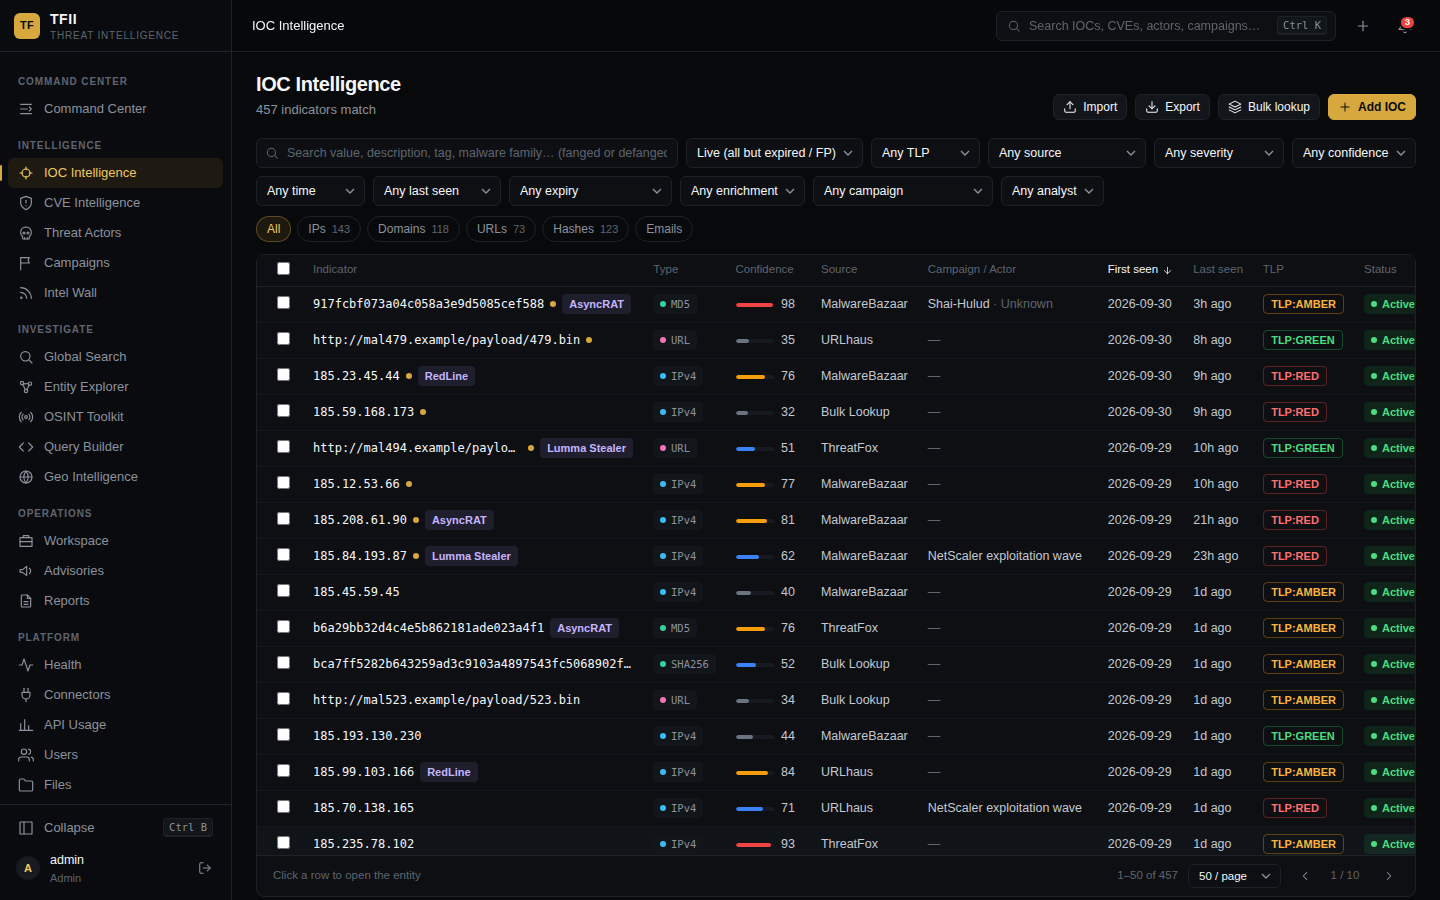
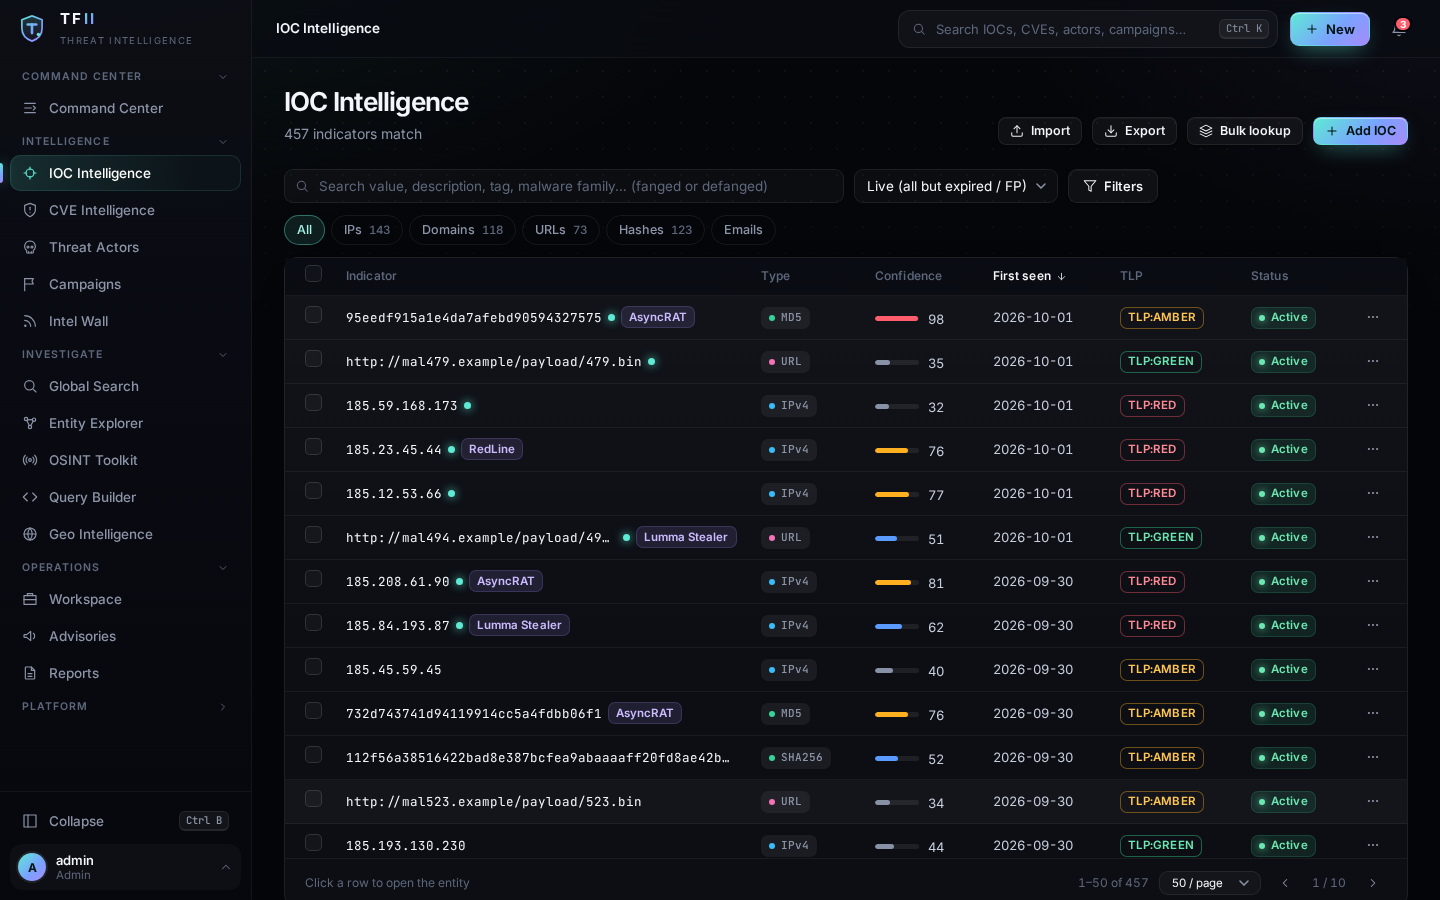
Refresh screenshots, landing page, README and social image for the v3 design; fix entity header chip alignment
Claude-Session: https://claude.ai/code/session_012nLDtHWnRi76oo16PN7hkL

diff --git a/docs/index.html b/docs/index.html
@@ -15,12 +15,12 @@
 <meta name="twitter:title" content="TFII — threat intelligence that shows its work">
 <meta name="twitter:description" content="Free, open-source, self-hosted threat intel: corroborated feed confidence, honest IOC location, CVE monitoring, bulk triage.">
 <meta name="twitter:image" content="https://sherifrahim.github.io/TFII/og.png">
-<meta name="theme-color" content="#0b1220">
+<meta name="theme-color" content="#05060a">
 <script type="application/ld+json">
 {"@context":"https://schema.org","@type":"SoftwareApplication","name":"TFII (ThreatFeed Intelligence Platform)","applicationCategory":"SecurityApplication","operatingSystem":"Linux, Docker","description":"Free, open-source, self-hosted threat intelligence platform with multi-source IOC feeds, CVE monitoring and STIX/TAXII.","url":"https://sherifrahim.github.io/TFII/","codeRepository":"https://github.com/sherifrahim/TFII","license":"https://opensource.org/licenses/MIT","offers":{"@type":"Offer","price":"0","priceCurrency":"USD"}}
 </script>
 <style>
-:root{--bg:#0b1220;--panel:#111a2e;--line:#1f2b46;--text:#e6ebf5;--muted:#9aa8c4;--accent:#5eead4;--accent2:#7aa2ff;--warn:#fbbf24}
+:root{--bg:#05060a;--panel:#0d0f16;--line:#1c2030;--text:#e8ebf3;--muted:#8c95a8;--accent:#5eead4;--accent2:#7aa2ff;--warn:#fbbf24}
 @media (prefers-color-scheme:light){:root{--bg:#f6f8fc;--panel:#fff;--line:#dbe2ef;--text:#0f1a30;--muted:#51617f;--accent:#0f766e;--accent2:#2952d9;--warn:#b45309}}
 *{box-sizing:border-box}
 html{scroll-behavior:smooth}
@@ -67,7 +67,7 @@ footer p{margin:6px 0;max-width:860px}
 <body>
 <div class="wrap">
   <header class="top">
-    <a class="brand" href="#top">TF<span>II</span></a>
+    <a class="brand" href="#top"><svg width="26" height="26" viewBox="0 0 32 32" aria-hidden="true" style="vertical-align:-6px;margin-right:8px"><defs><linearGradient id="lg" x1="4" y1="2" x2="28" y2="30" gradientUnits="userSpaceOnUse"><stop offset="0" stop-color="#5EEAD4"/><stop offset=".55" stop-color="#7AA2FF"/><stop offset="1" stop-color="#A78BFA"/></linearGradient></defs><path d="M16 4.2l8.7 3.3v7.3c0 5.3-3.6 9.2-8.7 11.1-5.1-1.9-8.7-5.8-8.7-11.1V7.5z" fill="rgba(94,234,212,.12)" stroke="url(#lg)" stroke-width="1.6" stroke-linejoin="round"/><g fill="url(#lg)"><rect x="11" y="11" width="10" height="2.4" rx="1.2"/><rect x="14.8" y="11" width="2.4" height="9.6" rx="1.2"/></g><circle cx="21.4" cy="20.4" r="1.6" fill="#5EEAD4"/></svg>TF<span>II</span></a>
     <nav>
       <a href="#why">Why</a><a href="#features">Features</a><a href="#start">Get started</a>
       <a href="https://github.com/sherifrahim/TFII">GitHub</a>
@@ -124,6 +124,17 @@ footer p{margin:6px 0;max-width:860px}
             <li>Export to CSV, add to an investigation</li>
           </ul>
         </div>
+      </div>
+      <div class="two" style="margin-bottom:36px">
+        <div>
+          <h3>A detailed report on anything you pick</h3>
+          <ul class="tick">
+            <li>Select indicators from a lookup, open one report with a tab per provider</li>
+            <li>Detections, engines, registration, DNS, reports and payloads, as each provider returned them</li>
+            <li>Copy as Markdown or download JSON</li>
+          </ul>
+        </div>
+        <img src="screenshots/08-detailed-report.png" loading="lazy" width="1440" height="900" alt="Detailed report with VirusTotal detections and flagging engines">
       </div>
       <div class="two">
         <div>

diff --git a/frontend/src/pages/EntityPage.js b/frontend/src/pages/EntityPage.js
@@ -203,7 +203,7 @@ export default function EntityPage({ kind: rawKind, refv, tab = "overview", inv 
             {kind === "cve" && tracked && hd.severity && hd.severity !== "none" && <Badge tone={hd.severity} dot>{hd.severity}</Badge>}
             {hd.tlp && <TLPBadge tlp={hd.tlp} />}
             {hd.status && <StatusBadge status={hd.status} />}
-            {hd.malware_family && <a className="badge violet" title={hd.malware_family} style={{ maxWidth: 260, overflow: "hidden", textOverflow: "ellipsis", whiteSpace: "nowrap", display: "inline-block" }} href={`#/malware/${enc(hd.malware_family)}`}>{hd.malware_family}</a>}
+            {hd.malware_family && <a className="badge violet" title={hd.malware_family} style={{ maxWidth: 260, overflow: "hidden", textOverflow: "ellipsis", whiteSpace: "nowrap", verticalAlign: "middle", }} href={`#/malware/${enc(hd.malware_family)}`}>{hd.malware_family}</a>}
           </div>
           <div className="row" style={{ gap: 6, alignItems: "flex-start" }}>
             {["indicator", "cve"].includes(kind) ? <LongValue value={hd.title} /> : <h1 className="page-title" style={{ fontSize: 24, overflowWrap: "anywhere" }}>{hd.title}</h1>}

diff --git a/README.md b/README.md
@@ -28,6 +28,7 @@ Most small teams cannot run a full threat-intel platform, and most free feeds ar
 | ![IOC Intelligence](docs/screenshots/02-ioc-intelligence.png) **IOC Intelligence** — filter, facet, bulk-act | ![Indicator and DNS](docs/screenshots/03-indicator-and-dns.png) **One page per indicator** — reasoning, enrichment, DNS records |
 | ![Relationship graph](docs/screenshots/04-relationship-graph.png) **Relationship graph** | ![Bulk lookup](docs/screenshots/05-bulk-lookup.png) **Bulk lookup** — 150 at a time, CSV export |
 | ![CVE Intelligence](docs/screenshots/06-cve-intelligence.png) **CVE Intelligence** — KEV, EPSS, your software | ![Global search](docs/screenshots/07-global-search.png) **Ctrl+K** — search everything |
+| ![Detailed report](docs/screenshots/08-detailed-report.png) **Detailed report** — every provider's answer, side by side | ![Geo intelligence](docs/screenshots/09-geo-intelligence.png) **Geo intelligence** — where your IP indicators sit |
 
 ## Quick Start
 
